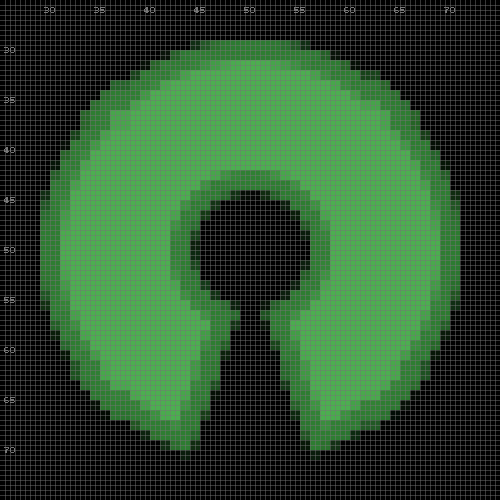
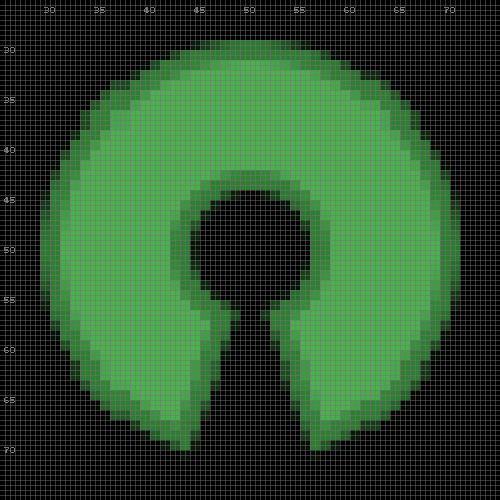
. doc : guide 5.1 : no redraw before the zoom; new reference images
The three references had been generated with the image drawn twice
(doubled anti-aliased edges, up to 31 levels on those pixels). The
guide and tst/guide.atm now draw it once.

Claude-Session: https://claude.ai/code/session_011eECoikzsmBiPNXNF7ffpf

diff --git a/doc/guide.md b/doc/guide.md
@@ -314,12 +314,12 @@ Note that `pico-atmos` preserves the correct text aspect ratio when we omit the
 width `w`.
 
 The field `font` also accepts a font loaded with `pico.font.load(path)`, or
-the tag `:default` to switch back to the built-in font:
+`true` to switch back to the built-in font:
 
 ```
 val font = pico.font.load('../c/res/DejaVuSans.ttf')
 pico.set.pencil [ font=font ]       ;; same effect as the path
-pico.set.pencil [ font=:default ]   ;; back to the built-in font
+pico.set.pencil [ font=true ]       ;; back to the built-in font
 ```
 
 To draw an [image](../c/res/open.png), we call `pico.output.draw.image`:
@@ -572,8 +572,6 @@ Next, we crop the view in half (`w=h=0.5`) to get a `2x` zoom in:
 
 <table>
 <tr><td><pre>
-pico.output.draw.image('../c/res/open.png',
-    ['%', x=0.5, y=0.5, w=0.5, h=0.5])
 pico.set.scene [
     source = ['%', x=0.5, y=0.5, w=0.5, h=0.5],
 ]
